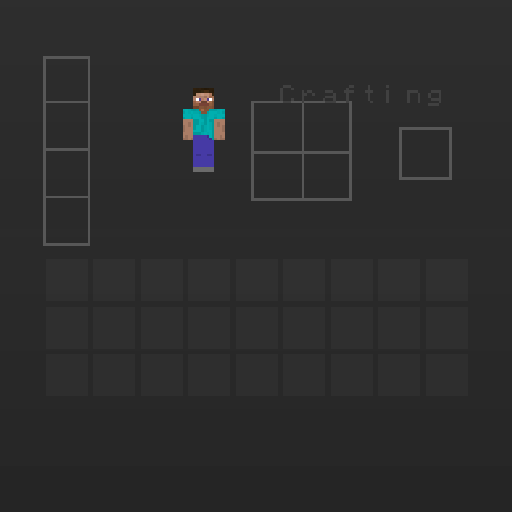
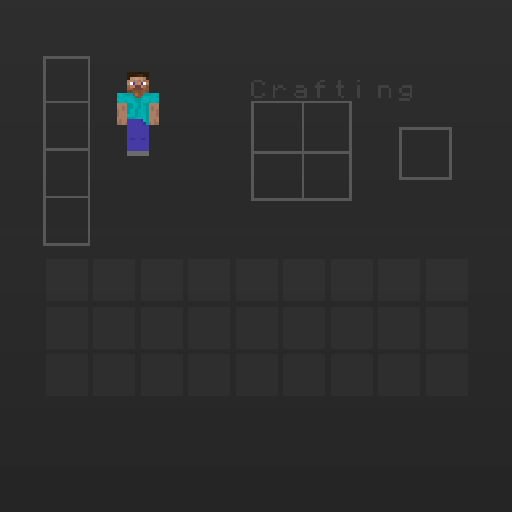
fix: correct inv.png text/skin positioning and remove particles card
- Fix renderMcText to use targetCellH instead of double-scaling
- Adjust Steve skin preview box coordinates (25,7,51x72)
- Adjust Crafting text position to (86,16) with proper cell height
- Remove particles.png card from pack detail page

Changed region(s): [[0.3438, 0.1562, 0.4375, 0.3438], [0.2188, 0.125, 0.3125, 0.3125]]

diff --git a/scripts/extract-textures.js b/scripts/extract-textures.js
@@ -225,11 +225,11 @@ async function extractPack(zipPath) {
   return { packId, originalName, extracted, outputDir, description };
 }
 
-async function renderMcText(asciiPath, text, scale = 1) {
-  const asciiImg = sharp(asciiPath);
-  const meta = await asciiImg.metadata();
-  const cellW = Math.round(meta.width / 16);
-  const cellH = Math.round(meta.height / 16);
+async function renderMcText(asciiPath, text, targetCellH) {
+  const meta = await sharp(asciiPath).metadata();
+  // ascii.png 是 16x16 网格，基准 cell = 8x8 (128x128 图集)
+  const srcCellW = Math.round(meta.width / 16);
+  const srcCellH = Math.round(meta.height / 16);
 
   const charBuffers = [];
   for (const c of text) {
@@ -237,18 +237,18 @@ async function renderMcText(asciiPath, text, scale = 1) {
     const col = code % 16;
     const row = Math.floor(code / 16);
     const buf = await sharp(asciiPath)
-      .extract({ left: col * cellW, top: row * cellH, width: cellW, height: cellH })
+      .extract({ left: col * srcCellW, top: row * srcCellH, width: srcCellW, height: srcCellH })
       .toBuffer();
     charBuffers.push(buf);
   }
 
-  const totalW = cellW * text.length;
+  const totalW = srcCellW * text.length;
   const composites = charBuffers.map((buf, i) => ({
-    input: buf, left: i * cellW, top: 0,
+    input: buf, left: i * srcCellW, top: 0,
   }));
 
   let textBuf = await sharp({
-    create: { width: totalW, height: cellH, channels: 4, background: { r: 0, g: 0, b: 0, alpha: 0 } }
+    create: { width: totalW, height: srcCellH, channels: 4, background: { r: 0, g: 0, b: 0, alpha: 0 } }
   }).composite(composites).raw().toBuffer({ resolveWithObject: true });
 
   const pixels = textBuf.data;
@@ -258,9 +258,11 @@ async function renderMcText(asciiPath, text, scale = 1) {
     }
   }
 
-  const finalW = totalW * scale;
-  const finalH = cellH * scale;
-  return sharp(pixels, { raw: { width: totalW, height: cellH, channels: 4 } })
+  // 缩放到目标 cell 高度
+  const ratio = targetCellH / srcCellH;
+  const finalW = Math.round(totalW * ratio);
+  const finalH = targetCellH;
+  return sharp(pixels, { raw: { width: totalW, height: srcCellH, channels: 4 } })
     .resize(finalW, finalH, { kernel: 'nearest' })
     .png()
     .toBuffer();
@@ -328,23 +330,24 @@ async function generateInventoryPreview(inventoryPath, outputDir) {
     // 在 inventory 裁剪图上合成 Steve 和 Crafting 文字（在缩放之前）
     const invCropComposites = [];
 
-    // Steve 皮肤 - 预览框区域约 (52,19) 起，宽50×高70
+    // Steve 皮肤 - 预览框内部区域 (256-base): 约 (25,7) 起，宽51×高72
     const skinPath = path.join(outputDir, 'steve.png');
     if (fs.existsSync(skinPath)) {
-      const skinTargetH = Math.round(70 * scale);
+      const boxX = 25, boxY = 7, boxW = 51, boxH = 72;
+      const skinTargetH = Math.round(boxH * scale * 0.85);
       const skinBuf = await renderSkinFront(skinPath, skinTargetH);
       const skinMeta = await sharp(skinBuf).metadata();
-      const skinX = Math.round(52 * scale + (50 * scale - skinMeta.width) / 2);
-      const skinY = Math.round(19 * scale + (70 * scale - skinMeta.height) / 2);
+      const skinX = Math.round(boxX * scale + (boxW * scale - skinMeta.width) / 2);
+      const skinY = Math.round(boxY * scale + (boxH * scale - skinMeta.height) / 2);
       invCropComposites.push({ input: skinBuf, left: skinX, top: skinY, blend: 'over' });
     }
 
-    // "Crafting" 文字 - 位置约 (97,18)
+    // "Crafting" 文字 - 位置 (256-base): 约 (86,16)
     const asciiPath = path.join(outputDir, 'ascii.png');
     if (fs.existsSync(asciiPath)) {
-      const textBuf = await renderMcText(asciiPath, 'Crafting', Math.round(scale));
-      const textX = Math.round(97 * scale);
-      const textY = Math.round(18 * scale);
+      const textBuf = await renderMcText(asciiPath, 'Crafting', Math.round(8 * scale));
+      const textX = Math.round(86 * scale);
+      const textY = Math.round(16 * scale);
       invCropComposites.push({ input: textBuf, left: textX, top: textY, blend: 'over' });
     }
 

diff --git a/assets/js/pack-detail.js b/assets/js/pack-detail.js
@@ -64,7 +64,6 @@ document.addEventListener('DOMContentLoaded', async () => {
           </div>
           <div class="preview-card gui-card"><canvas id="gui-preview"></canvas></div>
           <div class="preview-card inventory-card">${img('inv.png')}</div>
-          <div class="preview-card particles-card">${img('particles.png')}</div>
         </div>
       </div>
       <div class="admin-actions" id="admin-actions" style="display:none;">
